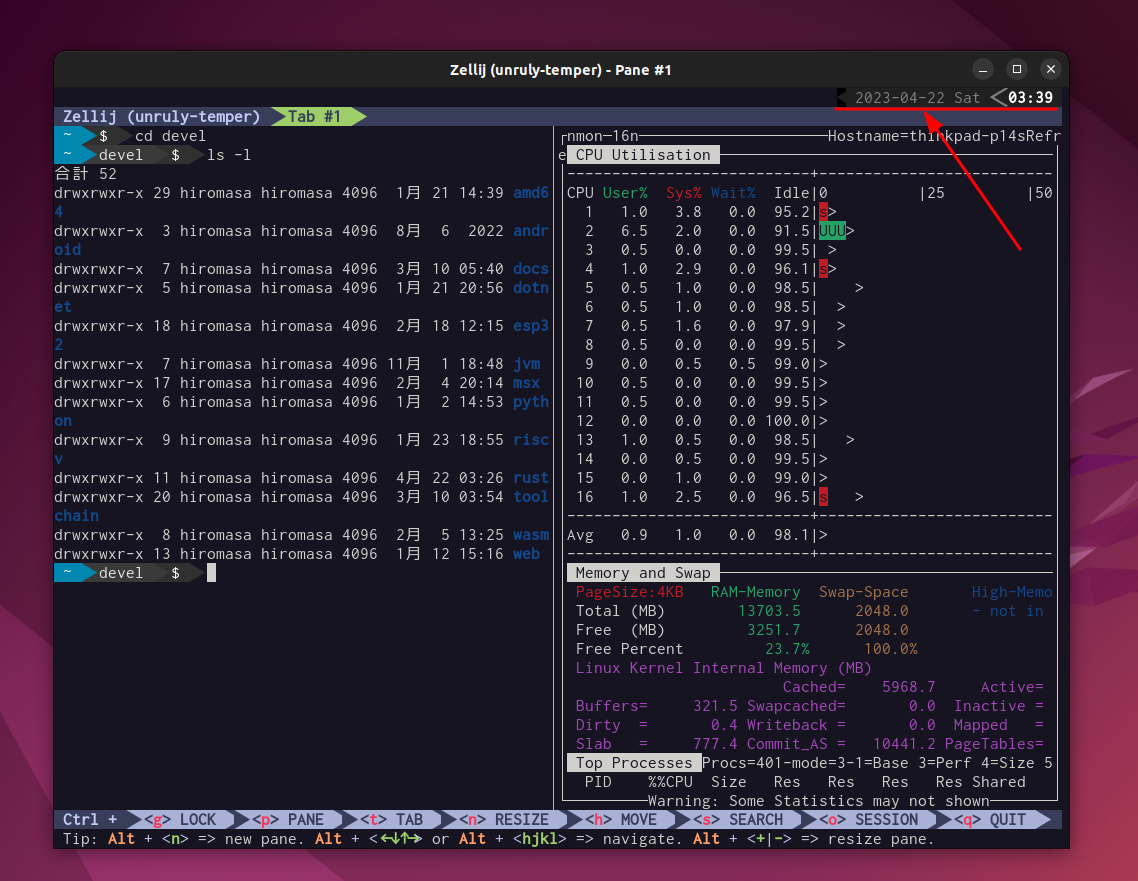
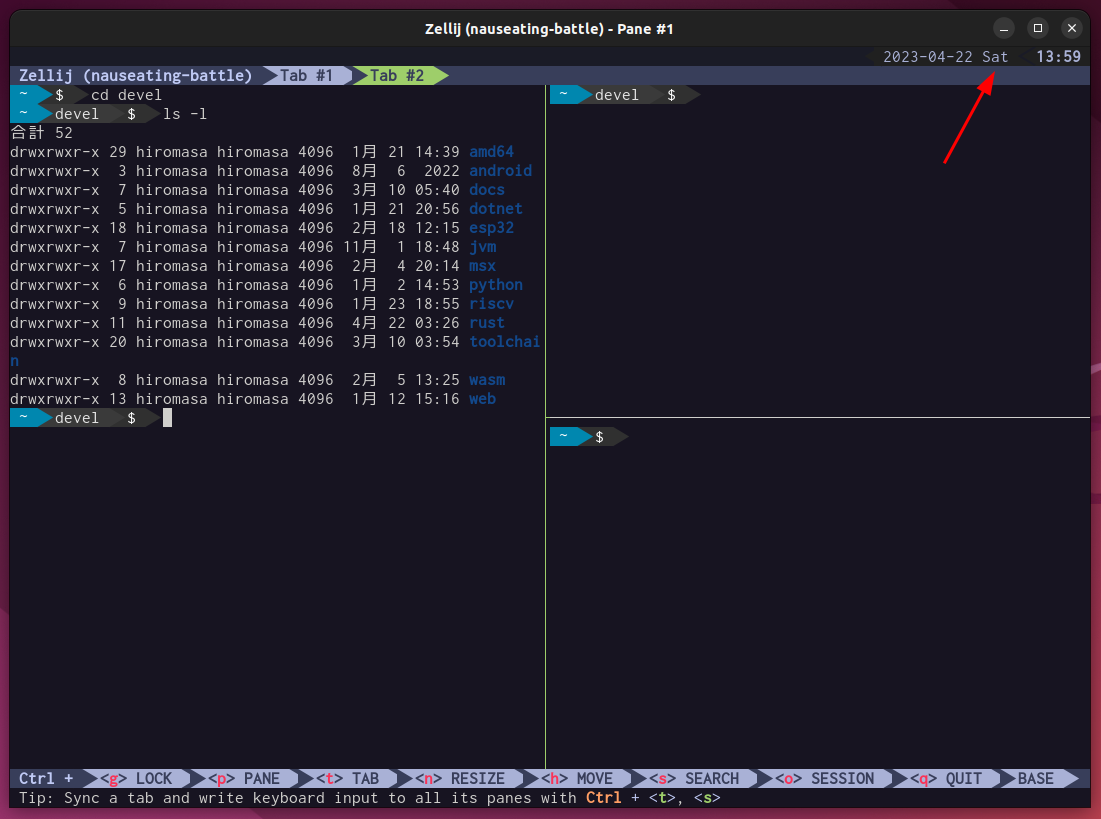
respect theme backgorund color

diff --git a/src/main.rs b/src/main.rs
@@ -18,7 +18,11 @@ register_plugin!(State);
 impl ZellijPlugin for State {
     fn load(&mut self) {
         set_selectable(false);
-        subscribe(&[EventType::Timer, EventType::Visible]);
+        subscribe(&[
+            EventType::Timer,
+            EventType::Visible,
+            EventType::ModeUpdate,
+        ]);
     }
 
     fn update(&mut self, event: Event) -> bool {
@@ -41,9 +45,7 @@ impl ZellijPlugin for State {
                 }
                 self.mode_info = mode_info;
             }
-            _ => {
-                self.render = false;
-            }
+            _ => {}
         }
 
         self.render
@@ -72,11 +74,9 @@ impl ZellijPlugin for State {
             // sec = now.second(),
         );
 
-        // TODO: respect theme pallet
         let pallet = self.mode_info.style.colors;
-        let fg1 = PaletteColor::Rgb((128, 128, 128));
-        let fg2 = PaletteColor::Rgb((255, 255, 255));
-        let bg1 = PaletteColor::Rgb((0, 0, 0));
+        let fg1 = pallet.fg;
+        let bg1 = pallet.bg;
         let bg2 = PaletteColor::Rgb((32, 32, 32));
 
         // create line string
@@ -85,9 +85,9 @@ impl ZellijPlugin for State {
         line.push_str(&style!(bg2, bg2).bold().paint(ARROW_SPACE).to_string());
         line.push_str(&style!(fg1, bg2).paint(&date).to_string());
         line.push_str(&style!(bg2, bg2).bold().paint(ARROW_SPACE).to_string());
-        line.push_str(&style!(fg1, bg2).bold().paint(ARROW_SEPARATOR_2).to_string());
+        line.push_str(&style!(bg1, bg2).bold().paint(ARROW_SEPARATOR_2).to_string());
         line.push_str(&style!(bg2, bg2).bold().paint(ARROW_SPACE).to_string());
-        line.push_str(&style!(fg2, bg2).bold().paint(&time).to_string());
+        line.push_str(&style!(fg1, bg2).bold().paint(&time).to_string());
         line.push_str(&style!(bg2, bg2).bold().paint(ARROW_SPACE).to_string());
 
         // render

diff --git a/README.md b/README.md
@@ -20,7 +20,7 @@ mkdir -p ~/.config/zellij/plugins/
 zellij setup --dump-layout default > ~/.config/zellij/layouts/default.kdl
 # deploy plugin .wasm
 cd ~/.config/zellij/plugins/
-wget https://github.com/h1romas4/zellij-datetime/releases/download/v0.1.3/zellij-datetime.wasm
+wget https://github.com/h1romas4/zellij-datetime/releases/download/v0.2.0/zellij-datetime.wasm
 ```
 
 ## Usage
